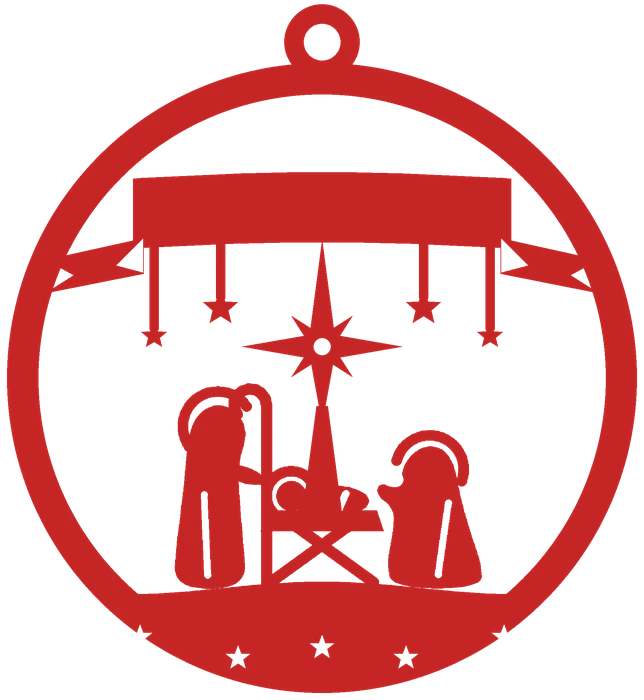
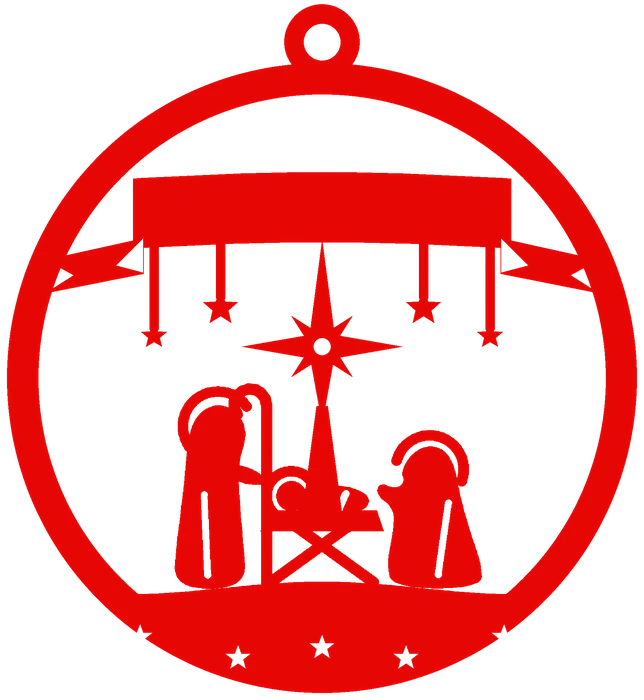
Holy Night preview: same red and white as the real photo
Claude-Session: https://claude.ai/code/session_01TFBsFtfU4UuH5G5NefuW9e

diff --git a/art.js b/art.js
@@ -271,9 +271,9 @@
   }
   function ornament(o, gx) {
     var nm = ornName(o.text || 'Gabriel'), L = ornLayout(nm);
-    return '<g' + (gx ? ' transform="' + gx + '"' : '') + '><image href="img/holy-ornament.webp" x="-46" y="-54" width="92" height="100"/>' +
-      (L ? '<text class="ornname" data-n="' + esc2(nm) + '" ' + ornTextAttrs(L) + ' font-family="' + OFONT + ', Pacifico, cursive" fill="#7E1A12" stroke="#7E1A12" stroke-linejoin="round" transform="translate(.35 .45)" opacity=".55">' + esc2(nm) + '</text>' +
-        '<text class="ornname" data-n="' + esc2(nm) + '" ' + ornTextAttrs(L) + ' font-family="' + OFONT + ', Pacifico, cursive" fill="#F7F5F0" stroke="#F7F5F0" stroke-linejoin="round">' + esc2(nm) + '</text>' : '') + '</g>';
+    return '<g' + (gx ? ' transform="' + gx + '"' : '') + '><image href="img/holy-ornament.webp?v=94852778" x="-46" y="-54" width="92" height="100"/>' +
+      (L ? '<text class="ornname" data-n="' + esc2(nm) + '" ' + ornTextAttrs(L) + ' font-family="' + OFONT + ', Pacifico, cursive" fill="#7A0402" stroke="#7A0402" stroke-linejoin="round" transform="translate(.35 .45)" opacity=".55">' + esc2(nm) + '</text>' +
+        '<text class="ornname" data-n="' + esc2(nm) + '" ' + ornTextAttrs(L) + ' font-family="' + OFONT + ', Pacifico, cursive" fill="#FFFFFF" stroke="#FFFFFF" stroke-linejoin="round">' + esc2(nm) + '</text>' : '') + '</g>';
   }
   // once Pacifico has loaded, re-fit any name drawn with the fallback metrics
   function ornRefit() {

diff --git a/studio-0bc83dc5.html b/studio-0bc83dc5.html
@@ -380,8 +380,8 @@ footer a:hover{color:var(--text)}
 
 <div class="toast" id="toast" role="status" aria-live="polite"></div>
 <script>window.BLAZE_ADMIN = true;</script>
-<script src="firebase-config.js?v=94843233"></script>
-<script src="art.js?v=94843233"></script>
-<script src="app.js?v=94843233"></script>
+<script src="firebase-config.js?v=94852778"></script>
+<script src="art.js?v=94852778"></script>
+<script src="app.js?v=94852778"></script>
 </body>
 </html>

diff --git a/index.html b/index.html
@@ -590,8 +590,8 @@ footer{background:#fff}
   </div>
 </footer>
 <div class="toast" id="toast" role="status" aria-live="polite"></div>
-<script src="firebase-config.js?v=94843233"></script>
-<script src="art.js?v=94843233"></script>
-<script src="app.js?v=94843233"></script>
+<script src="firebase-config.js?v=94852778"></script>
+<script src="art.js?v=94852778"></script>
+<script src="app.js?v=94852778"></script>
 </body>
 </html>
